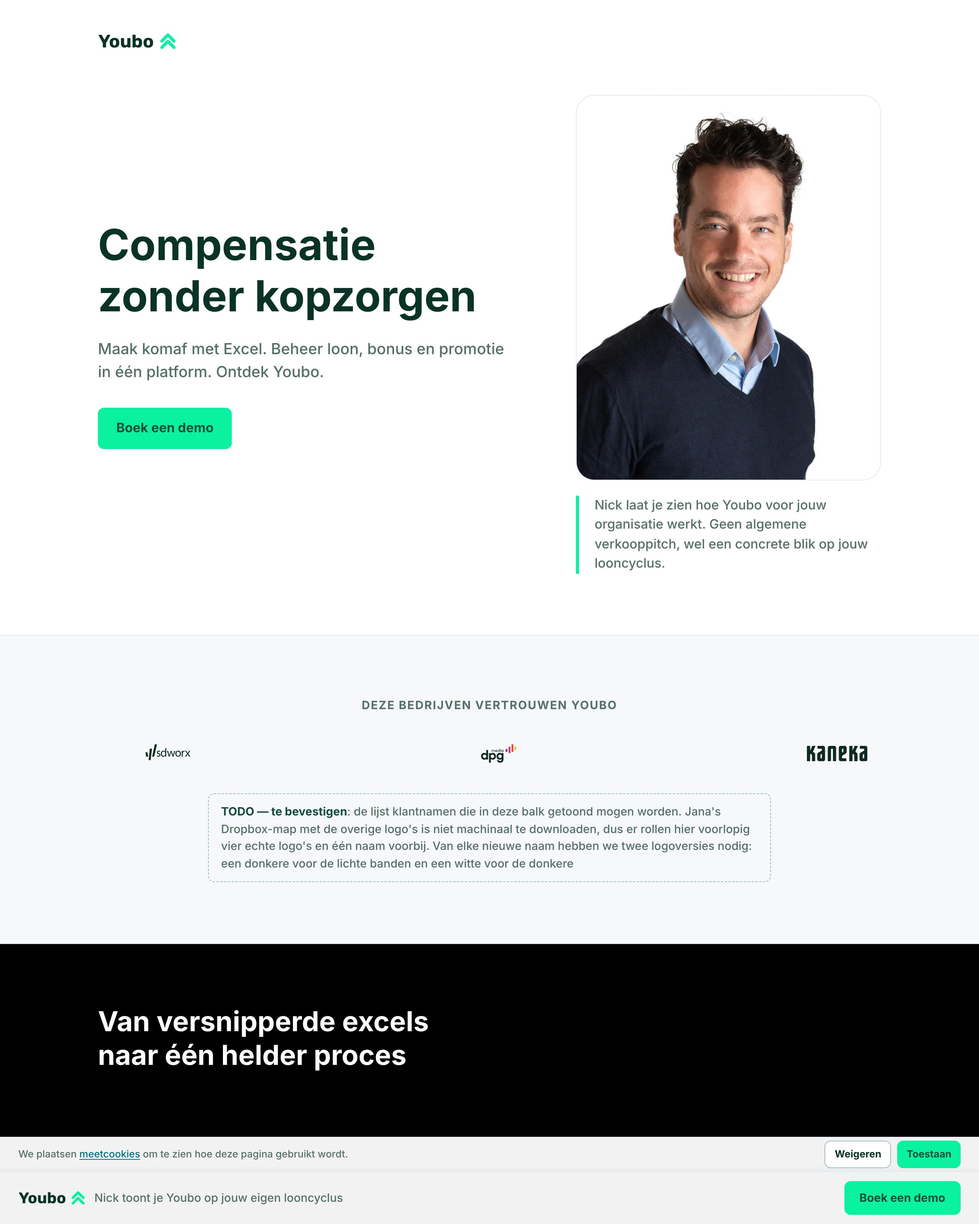
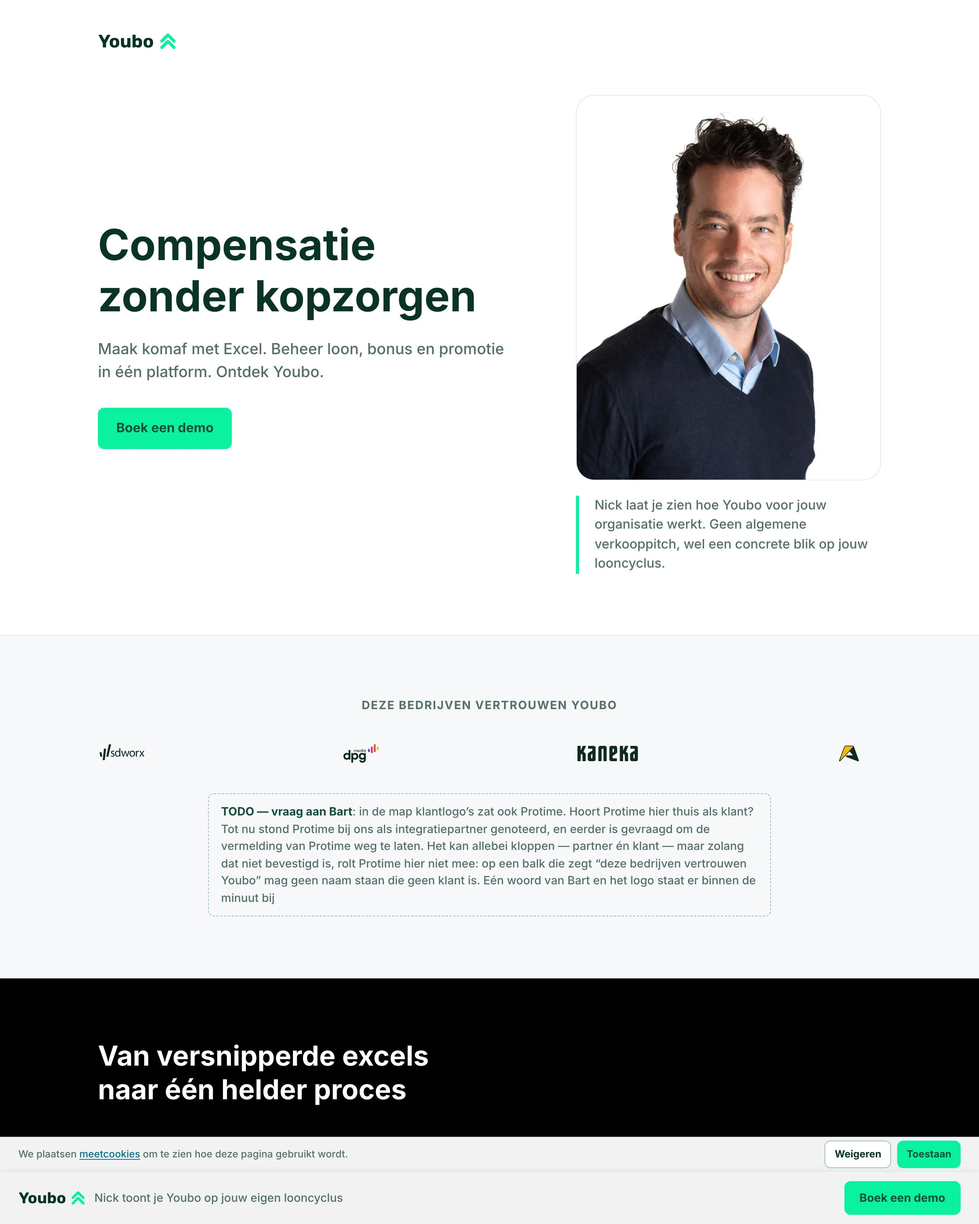
Echte klantlogo's van Bart — de balk rolt nu zoals Jana vroeg
Bart stuurde negen logo's uit hun systeem. Vier daarvan zijn nieuw:
Anchr, Crelan, Axi en Mourik. Voor SD Worx, DPG, Kaneka en Aertssen
hielden we de bestaande SVG's aan — die zijn vector en hebben een donkere
én een witte variant, waar Barts PNG's één kleurversie zijn.

Daarmee gaat de balk van vier logo's plus een naam in letters naar acht
echte logo's, en pas daarmee werkt wat Jana vroeg: niet allemaal tegelijk
in beeld. Gemeten over 60 standen: 2 tot 4 van de 8 zichtbaar op 390px,
4 tot 5 op 1440px, en geen enkele stand waarin een naam twee keer staat.
Tempo 15,8 px/s.

Axi, Mourik en Protime hadden een dichte witte achtergrond in plaats van
transparantie — op een band van #f6f8fa geeft dat een zichtbaar blokje.
Weggesneden en nagemeten: nul pure witte pixels in de balk. De bronmap
woog 515 kB, de vier bestanden samen nu 24,8 kB; Mourik alleen ging van
492 naar 9 kB.

Anchr heeft nu overal een logo in plaats van tekst — in de balk, op de
casekaart en bij de quote. Het mint haalt 4,8:1 op de donkere band, dus
één bestand volstaat voor allebei.

Protime rolt niet mee. Het zat wél in de map klantlogo's, maar stond bij
ons genoteerd als integratiepartner en is eerder op vraag geschrapt. Dat
kan allebei kloppen, maar op een balk die zegt dat deze bedrijven Youbo
vertrouwen mag geen naam staan die geen klant is. De vraag staat zichtbaar
op de pagina, gericht aan Bart.

diff --git a/draft-r3-01-definitief.html b/draft-r3-01-definitief.html
@@ -5,19 +5,19 @@ SCHAKELING: de overgang tussen licht en donker is zelf de belangrijkste beweging
 TITELS: één kop per sectie, nooit twee. De negen minititels boven de koppen zijn weg — Jana keurde die expliciet af en de briefing verbiedt ze. "Bonus & Merit" naast het woordmerk is er in ronde 3 ook uit; wat overblijft zijn de vier stapnummers in de rondleiding, die iets anders zijn dan een titel.
 FOOTER EN TOESTEMMING: de footer is die van youbo.io, link voor link overgenomen uit `_raw/components/nl/footer.html` — de juridische paden zijn /nl/legal/cookie-policy.html, -responsible-disclosure-policy.html, -disclaimer.html en -gebruiksvoorwaarden.html, en de privacy policy staat op tealpartners.com. Onderaan staat één smalle cookiebalk van één regel (gemeten 45px op 390px, was 111px), gestapeld bovenop de vaste demobalk; LinkedIn én Google laden pas na Toestaan, via laadMeettags(), met Consent Mode v2 op denied tot dan.
 HERO: de tekst komt eerst — kop, intro, knop — en het portret van Nick staat eronder op telefoon en ernaast op desktop. Dat is Jana's uitdrukkelijke vraag in ronde 3; in ronde 2 stond de foto bovenaan. De cijferregel en het blokje "Bonus & Merit" zijn uit de hero weg, en de fotoplek is vervangen door de echte foto (assets/img/nick-portret.webp, 900×1140 — exact het formaat dat BRIEF-R3.md noemt).
-LOGOBALK: een doorlopende marquee in plaats van een statische rij, met maskers aan beide randen, pauze bij hover en focus, en bij prefers-reduced-motion de oude statische rij. De tussenruimte is ruim en loopt per breekpunt op (56 → 260px), zodat er nooit een complete reeks tegelijk in beeld staat: gemeten raken er 3 van de 5 items de balk op 390px en 4 op 1440px, tegen 11 in ronde 3. Het tempo is gemeten 15,8 px/s op 390px en 15,9 op 1440px — de helft van ronde 3, en gelijk aan wat de briefing voorschreef; de duur loopt per breekpunt mee met de reeksbreedte, want één vaste duur geeft bij een bredere reeks een hoger tempo.
-CASES: geen carrousel meer op desktop maar een raster van vijf kaarten in twee rijen — drie smalle boven, twee brede onder — zonder kop erboven, met het voordeel als anker en de cijfers als opsomming, in de volgorde Kaneka · Anchr · Aertssen Group · SD Worx · DPG Media. Die volgorde en de sectoromschrijvingen komen sinds 2026-10-06 letterlijk uit Jana's eigen campagneplan; wij hadden de laatste twee omgedraaid. Jana noemt dit het meest overtuigende blok van de pagina, dus is het blok gemeten in plaats van beredeneerd: elke kaart heeft dezelfde vier blokken in dezelfde maatvoering en dezelfde voet met de downloadlink, en de rijverdeling drie-plus-twee is die waarin de minste leegte overblijft (185px tegen 334px in ronde 3 en 366px bij twee brede boven, gemeten op 1440px).
+LOGOBALK: ACHT echte logo's sinds 2026-10-08, geen tekstzetting meer. De vier SVG's die er stonden (SD Worx, DPG Media, Kaneka, Aertssen Group) blijven — die bestaan in twee polariteiten en een PNG daarvoor inruilen is achteruit — en Anchr, Crelan, Axi en Mourik komen uit de map die Bart De Nil doorstuurde. Protime zat in diezelfde map maar rolt niet mee: Protime stond bij ons als integratiepartner genoteerd en er is eerder gevraagd de vermelding weg te laten, dus staat daar een zichtbare vraag aan Bart in plaats van een logo. Verder ongewijzigd: een doorlopende marquee met maskers aan beide randen, pauze bij hover en focus, en bij prefers-reduced-motion de statische rij. De tussenruimte mocht met acht items kleiner (44 → 170px per breekpunt), want de reeks is uit zichzelf al breder dan de balk; gemeten over 60 standen van één volle reeks raken er 2 tot 4 van de 8 items de balk op 390px en 4 tot 5 op 1440px, en op geen enkele stand staat een naam twee keer in beeld. Het tempo blijft gemeten 15,8 à 15,9 px/s; de duur loopt per breekpunt mee met de reeksbreedte, want één vaste duur geeft bij een bredere reeks een hoger tempo.
+CASES: geen carrousel meer op desktop maar een raster van vijf kaarten in twee rijen — drie smalle boven, twee brede onder — zonder kop erboven, met het voordeel als anker en de cijfers als opsomming, in de volgorde Kaneka · Anchr · Aertssen Group · SD Worx · DPG Media. Die volgorde en de sectoromschrijvingen komen sinds 2026-10-06 letterlijk uit Jana's eigen campagneplan; wij hadden de laatste twee omgedraaid. Jana noemt dit het meest overtuigende blok van de pagina, dus is het blok gemeten in plaats van beredeneerd: elke kaart heeft dezelfde vier blokken in dezelfde maatvoering en dezelfde voet met de downloadlink, en de rijverdeling drie-plus-twee is die waarin de minste leegte overblijft (185px tegen 334px in ronde 3 en 366px bij twee brede boven, gemeten op 1440px). Sinds Anchr op 2026-10-08 een echt logo kreeg, is het TODO-blokje op die kaart weg en is die leegte opnieuw gemeten op 340px, nu in Kaneka en Anchr; de volgorde ligt vast in het campagneplan, dus de knip blijft waar hij staat.
 RONDLEIDING: het meescrollende blok bestaat alleen nog naast elkaar, vanaf 1024px, met één leeslijn op precies de helft van de vensterhoogte. Op telefoon staat per stap eerst de tekst en dan het scherm — Jana's vraag — en dat kan niet samen met een kaart die bovenaan vastkleeft, want die staat altijd bóven de tekst. De knop Boek een demo midden in dat blok is op desktop weg, en het losse brede blok Merit cycle 2027 is geschrapt: het herhaalde de cijfers van stap 1 en stap 3.
 HET GROTE CIJFER: de aanpak van draft-r2-04 overgenomen. Één doorlopende zin op displayformaat met 19.000 en 21 inline in dezelfde maat, alleen in kleur onderscheiden. In ronde 2 stond 19.000 op een eigen regel van 40/56px en 21 in gewone koptekst; dat verschil was Jana's klacht. Het optellen van die twee getallen is er in deze ronde uit: gemeten stonden er tijdens die 900ms 107 verschillende volledige zinnen op de pagina die alle 107 feitelijk onjuist waren.
-QUOTES: niet meer alle vijf tegelijk, maar één veegbare rij met scroll-snap — op telefoon één per keer, op desktop twee volledig plus een derde die half in beeld begint, want dat halve kaartje zegt zonder woorden dat er nog volgen. Pijlen vanaf md, vijf puntjes als telling. Alle vijf de quotes hebben sinds 2026-10-06 een echte foto: de klant leverde bart-verhoeven.webp, joris-valkenborgh.webp en evi-van-der-vliet.webp aan (alle drie 320×320, vierkant, hoofd gecentreerd), naast de bestaande pieter-jan.webp en mieke-catthoor.webp. De lege fotoplek en de fotoTODO zijn daarmee weg. Portretten blijven 56px, want marlies.png in het caseblok is maar 360×360 en breekt boven ±120px. Het klantlogo staat bovenaan de kaart en de functieregel noemt alleen de functie, zodat een schermlezer de klantnaam niet twee keer hoort. Anchr heeft geen logobestand en staat er typografisch.
+QUOTES: niet meer alle vijf tegelijk, maar één veegbare rij met scroll-snap — op telefoon één per keer, op desktop twee volledig plus een derde die half in beeld begint, want dat halve kaartje zegt zonder woorden dat er nog volgen. Pijlen vanaf md, vijf puntjes als telling. Alle vijf de quotes hebben sinds 2026-10-06 een echte foto: de klant leverde bart-verhoeven.webp, joris-valkenborgh.webp en evi-van-der-vliet.webp aan (alle drie 320×320, vierkant, hoofd gecentreerd), naast de bestaande pieter-jan.webp en mieke-catthoor.webp. De lege fotoplek en de fotoTODO zijn daarmee weg. Portretten blijven 56px, want marlies.png in het caseblok is maar 360×360 en breekt boven ±120px. Het klantlogo staat bovenaan de kaart en de functieregel noemt alleen de functie, zodat een schermlezer de klantnaam niet twee keer hoort. Anchr draagt sinds 2026-10-08 ook hier een echt logo: één mint-groen bestand doet beide banden, gemeten 4,8:1 op de donkere band.
 FAQ: ongewijzigd. Jana vindt die goed en verfijnt de antwoorden zelf met Nick en Bart.
 FORMULIER: Nicks ronde foto (nick-rond.webp) staat naast de intro, en die intro draagt sinds 2026-10-06 zijn volledige naam en titel: Nick Van Langendonck, reward expert. Het formulier komt eerst; eronder staat in de kleine zetting één rustig blok met de drie alternatieven — "Of boek rechtstreeks in Nicks agenda", zijn e-mailadres als mailto: en zijn telefoonnummer als tel:. Die gegevens stonden er in ronde 1, verdwenen in ronde 2 samen met de geschrapte zin "Liever meteen met iemand spreken" en zijn nu door Jana bevestigd — de gegevens komen dus terug, die zin niet. Bij de agenda staat nog geen knop, want die link bestaat nog niet. Het kader "Liever meteen iemand spreken" en de hint "Bij voorkeur je werkadres" zijn weg, het label Bericht is "Stel gerust al je vragen" geworden en de nieuwsbriefregel staat er letterlijk zoals Jana hem schreef, met "1x kwartaal" en met de slotpunt — ronde 3 had daar ongemerkt "1× per kwartaal" van gemaakt.
 VASTE BAND: terug, en nu écht permanent in beeld — ook vóór de cookiekeuze. In ronde 3 wachtte hij op die keuze, waardoor Jana's punt 10 onzichtbaar was voor élke nieuwe bezoeker; hij zet zelf geen cookie, dus is er ook geen reden om te wachten. De cookiebalk staat nu als smalle strook bovenóp hem in één vaste omhulling. Eén actie: Boek een demo. Hij verdwijnt zodra #demo in beeld komt — IntersectionObserver, met 96px marge zodat hij weg is vóórdat hij de kop van die sectie raakt — en ruimte() meet de hoogte van de omhulling (dus de som van wat er staat, niet het maximum van de twee) en zet die als padding-bottom op body, zodat geen van beide over de laatste regels van de footer valt. Gemeten op 390px: 45 + 69 = 114px samen, 69px zodra de cookiebalk weg is. x-show zet display:none, dus een knop in een balk die er niet staat, staat ook niet in de tabvolgorde. Bij prefers-reduced-motion verschijnen ze beide zonder overgang.
 STRUCTUUR: exact de volgorde van Jana's ChatGPT-concept (hero · logobalk · drie genummerde kernblokken · cases · hoe het werkt · het grote cijfer · EU Pay Transparency én de hr-tools · quotes · faq · formulier · footer). EU Pay Transparency en de hr-tools waren twee banden en zijn er in ronde 3 één: Jana noemt ze qua belang gelijkwaardig en wil ze op desktop naast elkaar, en naast elkaar bestaat niet over twee banden heen.
-LOGO'S PER SECTIE: logobalk en cases staan op licht en dragen de -dark varianten. De hr-tools dragen sinds ronde 3 geen enkel logo meer — het zijn functies met een zelfgetekend icoon, zodat de pagina niet meer wacht op het antwoord of de merklogo's getoond mogen worden. De quotes staan op de donkere verloopband en dragen daar de originele witte uitsparingen. Het Youbo-woordmerk volgt dezelfde regel: youbo_logo.svg op licht, youbo_logo_white.svg in de zwarte footer.
+LOGO'S PER SECTIE: logobalk en cases staan op licht en dragen de -dark varianten van de vier SVG's; de vier PNG-logo's van 2026-10-08 zijn volkleurenbestanden en hebben geen tweede versie nodig. De hr-tools dragen sinds ronde 3 geen enkel logo meer — het zijn functies met een zelfgetekend icoon, zodat de pagina niet meer wacht op het antwoord of de merklogo's getoond mogen worden. De quotes staan op de donkere verloopband en dragen daar de originele witte uitsparingen. Het Youbo-woordmerk volgt dezelfde regel: youbo_logo.svg op licht, youbo_logo_white.svg in de zwarte footer.
 AFWIJKING VAN DE TOKENS: geen enkele nieuwe kleurwaarde. De enige afgeleiden zijn witte transparanties (72%, 16%, 6%) voor secundaire tekst, randen en vlakken op de donkere banden — het systeem documenteert daar geen aparte token voor, en #547068 op zwart haalt de contrastdrempel niet.
-TODO OP DE PAGINA: waar de bronnen elkaar tegenspreken staat een zichtbaar TODO-blokje in plaats van een gekozen cijfer. Jana besliste op 2026-10-05 over SD Worx (21 landen), Kaneka (204 medewerkers) en DPG Media (6.214, van 2 weken naar 2 dagen); die drie blokjes zijn weg. Op 2026-10-06 zijn er drie blokjes bij weggevallen, elk omdat de vraag een antwoord kreeg: Nicks achternaam en functietitel (Nick Van Langendonck, reward expert), de merklogo's bij de hr-tools (Jana: "Ik denk dat die icoontjes beter zijn, laten we het daar op houden") en de ontbrekende quotefoto's (alle drie aangeleverd). Open blijven: het landental van Aertssen — dat staat als X in het campagneplan van de klant zelf en ligt dus bij Bart of Nick — de klantnamen voor de logobalk, het logobestand van Anchr, de case-pdf's, de agendalink van Nick, de integratielijst en het antwoord op "hoeveel kost het". De volgorde van de cases is op 2026-10-06 door het campagneplan beslecht en is geen TODO meer.
-NEEDS FROM CLIENT: (0) het Google meet-id (GTM-container of GA4) naast het LinkedIn partner ID; (1) de link naar Nicks agenda, aangevraagd en nog niet bestaand; (2) het logobestand van Anchr, in een donkere én een witte versie; (3) de vijf case-pdf's; (4) de lijst klantnamen die in de logobalk getoond mogen worden, met zowel een donkere als een witte logoversie; (5) het landental van Aertssen, dat in haar eigen campagneplan als X geschreven staat en dus bij Bart of Nick ligt — de 130 managers bij DPG Media komen in dat campagneplan niet voor en zijn van de pagina af; (6) de juiste integratielijst; (7) het antwoord op de prijsvraag; (8) het LinkedIn partner ID en het endpoint waar het formulier naartoe post; (9) de beslissing over de talen — de pagina is NL-only en de footer van youbo.io draagt een schakelaar Nederlands/English.
+TODO OP DE PAGINA: waar de bronnen elkaar tegenspreken staat een zichtbaar TODO-blokje in plaats van een gekozen cijfer. Jana besliste op 2026-10-05 over SD Worx (21 landen), Kaneka (204 medewerkers) en DPG Media (6.214, van 2 weken naar 2 dagen); die drie blokjes zijn weg. Op 2026-10-06 zijn er drie blokjes bij weggevallen, elk omdat de vraag een antwoord kreeg: Nicks achternaam en functietitel (Nick Van Langendonck, reward expert), de merklogo's bij de hr-tools (Jana: "Ik denk dat die icoontjes beter zijn, laten we het daar op houden") en de ontbrekende quotefoto's (alle drie aangeleverd). Op 2026-10-08 vielen er twee bij weg, allebei doordat Bart De Nil de klantlogo's doorstuurde: het logobestand van Anchr op de casekaart en dezelfde vraag op de quoteband. Het blokje over de klantnamen in de logobalk is niet weg maar versmald tot één open vraag: hoort Protime daar thuis als klant. Open blijven: het landental van Aertssen — dat staat als X in het campagneplan van de klant zelf en ligt dus bij Bart of Nick — de vraag over Protime, de case-pdf's, de agendalink van Nick, de integratielijst en het antwoord op "hoeveel kost het". De volgorde van de cases is op 2026-10-06 door het campagneplan beslecht en is geen TODO meer.
+NEEDS FROM CLIENT: (0) het Google meet-id (GTM-container of GA4) naast het LinkedIn partner ID; (1) de link naar Nicks agenda, aangevraagd en nog niet bestaand; (2) — vervallen op 2026-10-08: het logobestand van Anchr is er, en dat éne mint-groene bestand werkt op licht én op donker; (3) de vijf case-pdf's; (4) bevestiging dat Protime als klant in de logobalk mag — het logo zat in de map klantlogo's maar staat bij ons als integratiepartner, en is eerder op vraag van de klant weggehaald; (5) het landental van Aertssen, dat in haar eigen campagneplan als X geschreven staat en dus bij Bart of Nick ligt — de 130 managers bij DPG Media komen in dat campagneplan niet voor en zijn van de pagina af; (6) de juiste integratielijst; (7) het antwoord op de prijsvraag; (8) het LinkedIn partner ID en het endpoint waar het formulier naartoe post; (9) de beslissing over de talen — de pagina is NL-only en de footer van youbo.io draagt een schakelaar Nederlands/English.
 OPEN CIJFERS: SD Worx (21 landen), Kaneka (204 medewerkers) en DPG Media (6.214 medewerkers in 2 landen, 7× sneller) staan zonder voorbehoud op de pagina — de eerste twee besliste Jana op 2026-10-05, de derde komt op 2026-10-06 letterlijk uit haar campagneplan, dat ook de kop "van 2 weken naar 2 dagen" en de 130 managers uit haar oudere concept niet kent. Wat nog open staat, staat zichtbaar als TODO-blokje bij de casekaart: alleen nog het landental van Aertssen Group.
 -->
 <html lang="nl-BE">
@@ -530,6 +530,12 @@ tailwind.config = {
      een gap naast de sprongvrije plek — precies de zichtbare schok die een
      naïeve marquee maakt.
 
+     LET OP — DE TWEE TABELLEN HIERONDER ZIJN DIE VAN VIJF ITEMS EN ZIJN
+     ACHTERHAALD. Sinds 2026-10-08 staan er acht logo's in de reeks en worden
+     --logo-tussen en --logo-duur overschreven in het blok «r3: echte
+     klantlogo's» onderaan deze stylesheet, met de opnieuw gemeten getallen.
+     De redenering hieronder klopt nog wel, en daarom staat ze er.
+
      NIET ALLEMAAL TEGELIJK IN BEELD — WAT DAARVOOR NODIG WAS.
      In ronde 3 stond hier padding-inline: 36px, en dan is één reeks 635px
      breed tegen een balk van 1440px: er stonden 2,2 complete reeksen in beeld,
@@ -757,7 +763,15 @@ tailwind.config = {
      je hem twee keer. Zet je de knip na kaart drie, dan staan beide TODO's
      in de bovenste rij en is de onderste rij vlak.
 
-     Gemeten op 1440px, als som van de leegte boven de vijf downloadlinks:
+     BIJGESTELD OP 2026-10-08. Anchr heeft nu een logobestand, dus is dat
+     TODO-blokje weg en draagt alleen Aertssen Group er nog één. Daarmee klopt
+     het getal hieronder niet meer: opnieuw gemeten op 1440px is de som van de
+     leegte 340px in plaats van 185px, en zit ze nu in Kaneka (155) en Anchr
+     (155) in plaats van in Kaneka (155) en DPG Media (31). De knip blijft
+     na kaart drie staan — de volgorde van de vijf kaarten ligt vast in Jana's
+     campagneplan en is dus geen vrije variabele meer, en met één TODO in
+     plaats van twee valt er in de bovenste rij niets meer te verplaatsen.
+     Het blok eronder is de redenering van toen, met de getallen van toen:
 
        drie smal + twee breed   185px  (Kaneka 155, DPG 31, de rest 0)
        twee breed + drie smal   366px  (Kaneka 87, SD Worx 124, DPG 155)
@@ -892,6 +906,98 @@ tailwind.config = {
   @media (max-width: 374px) {
     .alt-weg .alt-link { white-space: normal; overflow-wrap: anywhere; }
   }
+  /* === r3: echte klantlogo's === */
+
+  /* ---------------------------------------------------------------------
+     VIER ECHTE KLANTLOGO'S ERBIJ — ANCHR, CRELAN, AXI, MOURIK
+     ---------------------------------------------------------------------
+     Bart De Nil stuurde op 2026-10-08 negen PNG's door. Vier ervan zijn nieuw
+     en staan nu op de pagina; SD Worx, DPG Media, Kaneka en Aertssen Group
+     houden hun SVG's, want die bestaan al in twee polariteiten en een PNG is
+     daar een stap terug. Protime blijft eruit tot Bart bevestigt dat het een
+     klant is en geen integratiepartner.
+
+     WAT ER MET DE BESTANDEN GEBEURD IS. Axi en Mourik kwamen aan als een
+     ONDOORZICHTIG WIT VLAK met het logo erin — op #f6f8fa zie je dan een
+     witte rechthoek om het logo heen staan. Die is weggehaald, inclusief de
+     binnenvlakken die bij het ontwerp horen (het oog van de a in «axi», de
+     trapeziumuitsparing in het merk van Mourik): die zijn nu doorzichtig, dus
+     is dat de bandkleur en niet wit. Gecontroleerd door ze op exact #f6f8fa
+     te renderen, niet door de conversie te geloven. Mourik ging van 492 KB
+     naar 9 KB, de vier samen wegen 24,8 KB.
+
+     OPTISCHE MAATVOERING, GEEN PIXELHOOGTE. Acht logo's op dezelfde CSS-hoogte
+     lezen niet als acht even grote logo's: een woordmerk zonder stok of staart
+     (anchr, axi) oogt groter dan een merk met een vorm erboven (Mourik) of een
+     teken naast het woord (Crelan, Aertssen). Daarom heeft elk logo zijn eigen
+     hoogte, in de browser tegen elkaar afgewogen in plaats van gerekend:
+
+       Aertssen Group  32px   vorm + woord naast elkaar
+       Mourik          26px   vorm half boven het woord
+       Crelan          26px   teken links, woord rechts, teken loopt hoger
+       SD Worx         24px   woordmerk met stokken
+       DPG Media       24px   vier vormen + woord
+       Anchr           21px   woordmerk, vrijwel alleen x-hoogte plus de h
+       Axi             20px   woordmerk, zeer vet en gesloten
+       Kaneka          20px   woordmerk, breed en licht
+
+     De vuistregel erachter: hoe compacter en voller het silhouet, hoe lager
+     het mag staan om even groot te lijken.
+     --------------------------------------------------------------------- */
+  .logo-anchr  { height: 21px; }
+  .logo-crelan { height: 26px; }
+  .logo-axi    { height: 20px; }
+  .logo-mourik { height: 26px; }
+
+  /* De casekaart heeft een logoplek van 32px en logo's van 20 tot 32px; Anchr
+     zit daar net als in de balk aan de onderkant van die reeks. */
+  .logo-anchr-case  { height: 21px; }
+
+  /* Op de donkere quoteband staan de logo's een maat kleiner (16 tot 20px).
+     Hetzelfde bestand: mint op bijna zwart haalt daar ruim contrast, dus er
+     is geen witte uitsparing nodig. */
+  .logo-anchr-quote { height: 17px; }
+
+  /* ---------------------------------------------------------------------
+     DE MARQUEE OPNIEUW AFGESTELD VOOR ACHT LOGO'S
+     ---------------------------------------------------------------------
+     Twee dingen veranderen zodra de reeks van vijf naar acht gaat, en ze gaan
+     de tegenovergestelde kant op.
+
+     1 · DE TUSSENRUIMTE MAG KLEINER. Met vijf items moest de tussenruimte
+     extreem ruim zijn om te verhinderen dat een complete reeks tegelijk in
+     beeld stond; met acht is de reeks al breed genoeg uit zichzelf. De ruime
+     maat uit ronde 3 liet er op 1440px nog maar 3 van de 8 voorbijkomen, en
+     een balk met drie logo's en veel lucht leest niet als een klantenrij.
+     De acht logo's meten samen 520px, dus is één reeks 520 + 16 × de
+     tussenruimte — ruim boven de balkbreedte op elk breekpunt, en dus staat
+     er nooit een complete reeks in beeld en nooit een naam twee keer.
+
+     Gemeten door de animatie stil te zetten en het spoor in 60 standen over
+     één volle reeks te schuiven, en op elke stand te tellen welke items de
+     balk raken en of er een naam twee keer in beeld staat:
+
+       tussenruimte   één reeks   balk      items in beeld   naam dubbel
+       44px  (<768)     1224px    390px     2 tot 4 van 8    0 van 60 standen
+       96px  (≥768)     2056px    768px     3 tot 4 van 8    0 van 60 standen
+       130px (≥1280)    2600px   1440px     4 tot 5 van 8    0 van 60 standen
+       170px (≥1920)    3240px   1920px     4 tot 5 van 8    0 van 60 standen
+
+     2 · DE DUUR MOET LANGER. Het tempo is de reeksbreedte gedeeld door de
+     duur, dus geeft dezelfde duur bij een bredere reeks een hóger tempo:
+     met de duur van ronde 3 liep deze balk gemeten op 26 à 27 px/s, bijna het
+     dubbele van de 15,9 px/s die de briefing voorschrijft. Duur =
+     reeksbreedte ÷ 15,9, per breekpunt opnieuw.
+     --------------------------------------------------------------------- */
+  .logo-balk { --logo-tussen: 44px; --logo-duur: 77s; }
+  @media (min-width: 768px)  { .logo-balk { --logo-tussen: 96px;  --logo-duur: 130s; } }
+  @media (min-width: 1280px) { .logo-balk { --logo-tussen: 130px; --logo-duur: 164s; } }
+  @media (min-width: 1920px) { .logo-balk { --logo-tussen: 170px; --logo-duur: 204s; } }
+
+  /* De statische terugval bij prefers-reduced-motion houdt haar eigen, veel
+     kleinere tussenruimte; die regel staat hierboven met !important en blijft
+     dus gelden. Met acht namen wikkelt die rij over meer regels, en dat is
+     daar de bedoeling: leesbaarheid gaat er voor op «niet allemaal tegelijk». */
 </style>
 
 <script>document.documentElement.classList.add('js');</script>
@@ -950,14 +1056,24 @@ tailwind.config = {
 </header>
 
 <!-- =========================================================================
-     2 · LOGOBALK — LICHT (#f6f8fa). Licht, dus de -dark logobestanden.
+     2 · LOGOBALK — LICHT (#f6f8fa). ACHT echte logo's sinds 2026-10-08.
+     De vier -dark SVG's die er al stonden, plus Anchr, Crelan, Axi en Mourik
+     uit de map die Bart De Nil doorstuurde. Die vier zijn volkleurenbestanden
+     en hebben dus geen -dark variant nodig; alleen Anchr komt ook op een
+     donkere band voor, en mint leest daar even goed.
+
+     Van de negen bestanden in die map gebruiken we er vier. SD Worx, DPG
+     Media, Kaneka en Aertssen Group hebben we al als vector in twee
+     polariteiten — een PNG daarvoor inruilen is achteruit. Protime is er
+     bewust uit, met een zichtbare vraag aan Bart eronder.
+
      Een doorlopende marquee: de logo's rollen traag van rechts naar links
      voorbij, met zoveel ruimte ertussen dat er nooit een complete reeks
-     tegelijk in beeld staat — gemeten 4 van de 5 items op 1440px, 3 op 390px,
+     tegelijk in beeld staat — gemeten 4 van de 8 items op 1440px, 2 op 390px,
      en nooit een naam twee keer. Het spoor draagt drie keer dezelfde reeks en schuift naar
      -33,3333%, zodat de lus naadloos sluit; de twee duplicaten staan op
      aria-hidden, dus in de toegankelijkheidsboom staat de lijst precies één
-     keer. Het tempo is gemeten 15,8 à 15,9 px/s. Zie de toelichting in de
+     keer. Het tempo blijft ±15,9 px/s. Zie de toelichting in de
      stylesheet.
      ========================================================================= -->
 <section class="bg-surface border-y border-line band-pad" aria-labelledby="klanten-titel">
@@ -974,31 +1090,42 @@ tailwind.config = {
       <li><img src="assets/img/dpg-logo-dark.svg"      alt="DPG Media"      class="h-6 w-auto"></li>
       <li><img src="assets/img/kaneka-logo-dark.svg"   alt="Kaneka"         class="h-5 w-auto"></li>
       <li><img src="assets/img/aertssen-logo-dark.svg" alt="Aertssen Group" class="h-8 w-auto"></li>
-      <li><span class="text-h3 font-bold text-ink">Anchr</span></li>
+      <li><img src="assets/img/anchr-logo.webp"  width="214" height="65" alt="Anchr"  class="logo-anchr  w-auto"></li>
+      <li><img src="assets/img/crelan-logo.webp" width="268" height="78" alt="Crelan" class="logo-crelan w-auto"></li>
+      <li><img src="assets/img/axi-logo.webp"    width="244" height="96" alt="Axi"    class="logo-axi    w-auto"></li>
+      <li><img src="assets/img/mourik-logo.webp" width="353" height="96" alt="Mourik" class="logo-mourik w-auto"></li>
     </ul>
     <ul class="logo-reeks" aria-hidden="true">
       <li><img src="assets/img/sdworx-logo-dark.svg"   alt="SD Worx"        class="h-6 w-auto"></li>
       <li><img src="assets/img/dpg-logo-dark.svg"      alt="DPG Media"      class="h-6 w-auto"></li>
       <li><img src="assets/img/kaneka-logo-dark.svg"   alt="Kaneka"         class="h-5 w-auto"></li>
       <li><img src="assets/img/aertssen-logo-dark.svg" alt="Aertssen Group" class="h-8 w-auto"></li>
-      <li><span class="text-h3 font-bold text-ink">Anchr</span></li>
+      <li><img src="assets/img/anchr-logo.webp"  width="214" height="65" alt="Anchr"  class="logo-anchr  w-auto"></li>
+      <li><img src="assets/img/crelan-logo.webp" width="268" height="78" alt="Crelan" class="logo-crelan w-auto"></li>
+      <li><img src="assets/img/axi-logo.webp"    width="244" height="96" alt="Axi"    class="logo-axi    w-auto"></li>
+      <li><img src="assets/img/mourik-logo.webp" width="353" height="96" alt="Mourik" class="logo-mourik w-auto"></li>
     </ul>
     <ul class="logo-reeks" aria-hidden="true">
       <li><img src="assets/img/sdworx-logo-dark.svg"   alt="SD Worx"        class="h-6 w-auto"></li>
       <li><img src="assets/img/dpg-logo-dark.svg"      alt="DPG Media"      class="h-6 w-auto"></li>
       <li><img src="assets/img/kaneka-logo-dark.svg"   alt="Kaneka"         class="h-5 w-auto"></li>
       <li><img src="assets/img/aertssen-logo-dark.svg" alt="Aertssen Group" class="h-8 w-auto"></li>
-      <li><span class="text-h3 font-bold text-ink">Anchr</span></li>
+      <li><img src="assets/img/anchr-logo.webp"  width="214" height="65" alt="Anchr"  class="logo-anchr  w-auto"></li>
+      <li><img src="assets/img/crelan-logo.webp" width="268" height="78" alt="Crelan" class="logo-crelan w-auto"></li>
+      <li><img src="assets/img/axi-logo.webp"    width="244" height="96" alt="Axi"    class="logo-axi    w-auto"></li>
+      <li><img src="assets/img/mourik-logo.webp" width="353" height="96" alt="Mourik" class="logo-mourik w-auto"></li>
     </ul>
     </div>
   </div>
 
   <div class="shell">
     <p class="todo mt-8 mx-auto max-w-prose text-left">
-      <b>TODO — te bevestigen</b>: de lijst klantnamen die in deze balk getoond mogen worden. Jana's
-      Dropbox-map met de overige logo's is niet machinaal te downloaden, dus er rollen hier voorlopig
-      vier echte logo's en één naam voorbij. Van elke nieuwe naam hebben we twee logoversies nodig: een
-      donkere voor de lichte banden en een witte voor de donkere
+      <b>TODO — vraag aan Bart</b>: in de map klantlogo’s zat ook Protime. Hoort Protime hier
+      thuis als klant? Tot nu stond Protime bij ons als integratiepartner genoteerd, en eerder is
+      gevraagd om de vermelding van Protime weg te laten. Het kan allebei kloppen — partner én
+      klant — maar zolang dat niet bevestigd is, rolt Protime hier niet mee: op een balk die zegt
+      “deze bedrijven vertrouwen Youbo” mag geen naam staan die geen klant is. Eén woord van Bart
+      en het logo staat er binnen de minuut bij
     </p>
   </div>
 </section>
@@ -1262,14 +1389,15 @@ tailwind.config = {
         </article>
       </li>
 
-      <!-- Anchr heeft geen logobestand, in geen enkele versie. Dus geen grijze
-           plaatshouder en niets verzonnen: de naam staat hier typografisch, in
-           dezelfde 32px-hoge logoplek als de logo's ernaast en in dezelfde
-           zetting als in de logobalk bovenaan, met een zichtbare TODO erbij. -->
+      <!-- Anchr heeft sinds 2026-10-08 een echt logobestand: Bart De Nil stuurde
+           negen klantlogo's door. Het is één mint-groene letterzetting zonder
+           aparte donkere of witte versie, en dat hoeft ook niet — mint haalt op
+           #f6f8fa én op de donkere band ruim contrast. De typografische
+           plaatsvervanger en de TODO erbij zijn dus weg. -->
       <li class="snap-start shrink-0 w-[85%] sm:w-[62%] lg:w-auto lg:col-span-2">
         <article class="card case-kaart h-full border border-line">
           <div class="case-body">
-            <span class="case-logo text-h3 font-bold text-ink">Anchr</span>
+            <span class="case-logo"><img src="assets/img/anchr-logo.webp" width="214" height="65" alt="Anchr" class="logo-anchr-case w-auto"></span>
             <p class="case-voordeel mt-6 text-h2 font-bold text-ink">Meerdere werkdagen bespaard</p>
             <ul class="mt-4 list-none p-0 m-0 space-y-2 text-caption text-ink-soft">
               <li class="flex items-start gap-3"><span class="cijferstip" aria-hidden="true"></span><span class="tabular">300 medewerkers</span></li>
@@ -1278,7 +1406,6 @@ tailwind.config = {
             <p class="mt-4 text-caption text-ink-soft">Softwaregroep</p>
           </div>
           <div class="case-slot">
-            <span class="todo case-todo"><b>TODO — nodig van klant</b>: het logobestand van Anchr, in een donkere en een witte versie</span>
             <div class="case-foot">
               <a href="#cases-open" class="caselink" data-cta="case-pdf-anchr">
                 <svg viewBox="0 0 24 24" fill="none" stroke="currentColor" stroke-width="1.6" class="h-4 w-4 shrink-0" aria-hidden="true"><path d="M7 3h7l4 4v14H7z" stroke-linecap="round" stroke-linejoin="round"/><path d="M14 3v4h4" stroke-linecap="round" stroke-linejoin="round"/></svg><span>Download de case (pdf)</span><svg viewBox="0 0 24 24" fill="none" stroke="currentColor" stroke-width="1.6" class="pijl h-4 w-4 shrink-0" aria-hidden="true"><path d="M5 12h13M13 6l6 6-6 6" stroke-linecap="round" stroke-linejoin="round"/></svg>
@@ -2032,11 +2159,12 @@ tailwind.config = {
         </figure>
       </li>
 
-      <!-- Evi Van der Vliet — foto aangeleverd op 2026-10-06; Anchr heeft nog
-           steeds geen logobestand en staat hier dus typografisch -->
+      <!-- Evi Van der Vliet — foto aangeleverd op 2026-10-06, logo op 2026-10-08.
+           Hetzelfde mint-groene bestand als op licht: op deze band staat het op
+           bijna zwart en dat is precies waar mint het best leest. -->
       <li class="snap-start shrink-0 w-[85%] sm:w-[62%] lg:w-[38%]">
         <figure class="card-inv m-0 h-full p-6 md:p-8 flex flex-col">
-          <span class="h-5 flex items-center text-h3 font-bold on-dark">Anchr</span>
+          <img src="assets/img/anchr-logo.webp" width="214" height="65" alt="Anchr" class="logo-anchr-quote w-auto self-start">
           <blockquote class="m-0 mt-6 text-h3 on-dark">
             “Als Youbo morgen zou verdwijnen, zouden we vooral het overzicht missen. In één klik zien
             we de jaarkost en het totale loonpakket van de werknemer.”
@@ -2072,16 +2200,10 @@ tailwind.config = {
       </template>
     </div>
 
-    <!-- De fotoTODO is weg: de klant leverde op 2026-10-06 de portretten van
-         Bart Verhoeven, Joris Valkenborgh en Evi Van der Vliet aan, dus hebben
-         alle vijf de quotes nu een echte foto en is "half met, half zonder"
-         geen open punt meer. Wat hier wél open blijft is het logobestand van
-         Anchr; dat is dezelfde ontbrekende asset als op de casekaart, maar hier
-         is een WITTE uitsparing nodig en daar een donkere. -->
-    <p class="todo-inv mt-8 max-w-prose" data-reveal>
-      <b>TODO — nodig van klant</b>: Anchr heeft nog geen logobestand, dus staat die naam hier in
-      letters in plaats van als logo. Op deze donkere band is een witte uitsparing nodig
-    </p>
+    <!-- Geen TODO meer in dit blok. De fotoTODO verviel op 2026-10-06 met de drie
+         ontbrekende portretten; de logoTODO verviel op 2026-10-08 met het logo van
+         Anchr. Dat ene bestand doet beide polariteiten: mint op bijna zwart is
+         hier zelfs leesbaarder dan op de lichte band. -->
   </div>
 </section>
 
